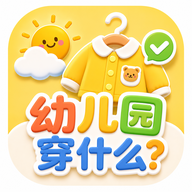
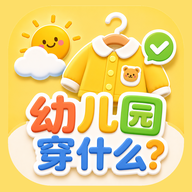
图标去白边：把外圈白色/白描边填成卡片黄色，满版无白边；SW 缓存 v4

Changed region(s): [[0.0, 0.0, 1.0, 1.0]]

diff --git a/sw.js b/sw.js
@@ -1,5 +1,5 @@
 // 幼儿园穿什么 · Service Worker
-const CACHE = 'kg-v3';
+const CACHE = 'kg-v4';
 const ASSETS = [
   './', './index.html', './manifest.webmanifest',
   './icon-192.png', './icon-512.png', './icon-180.png',
